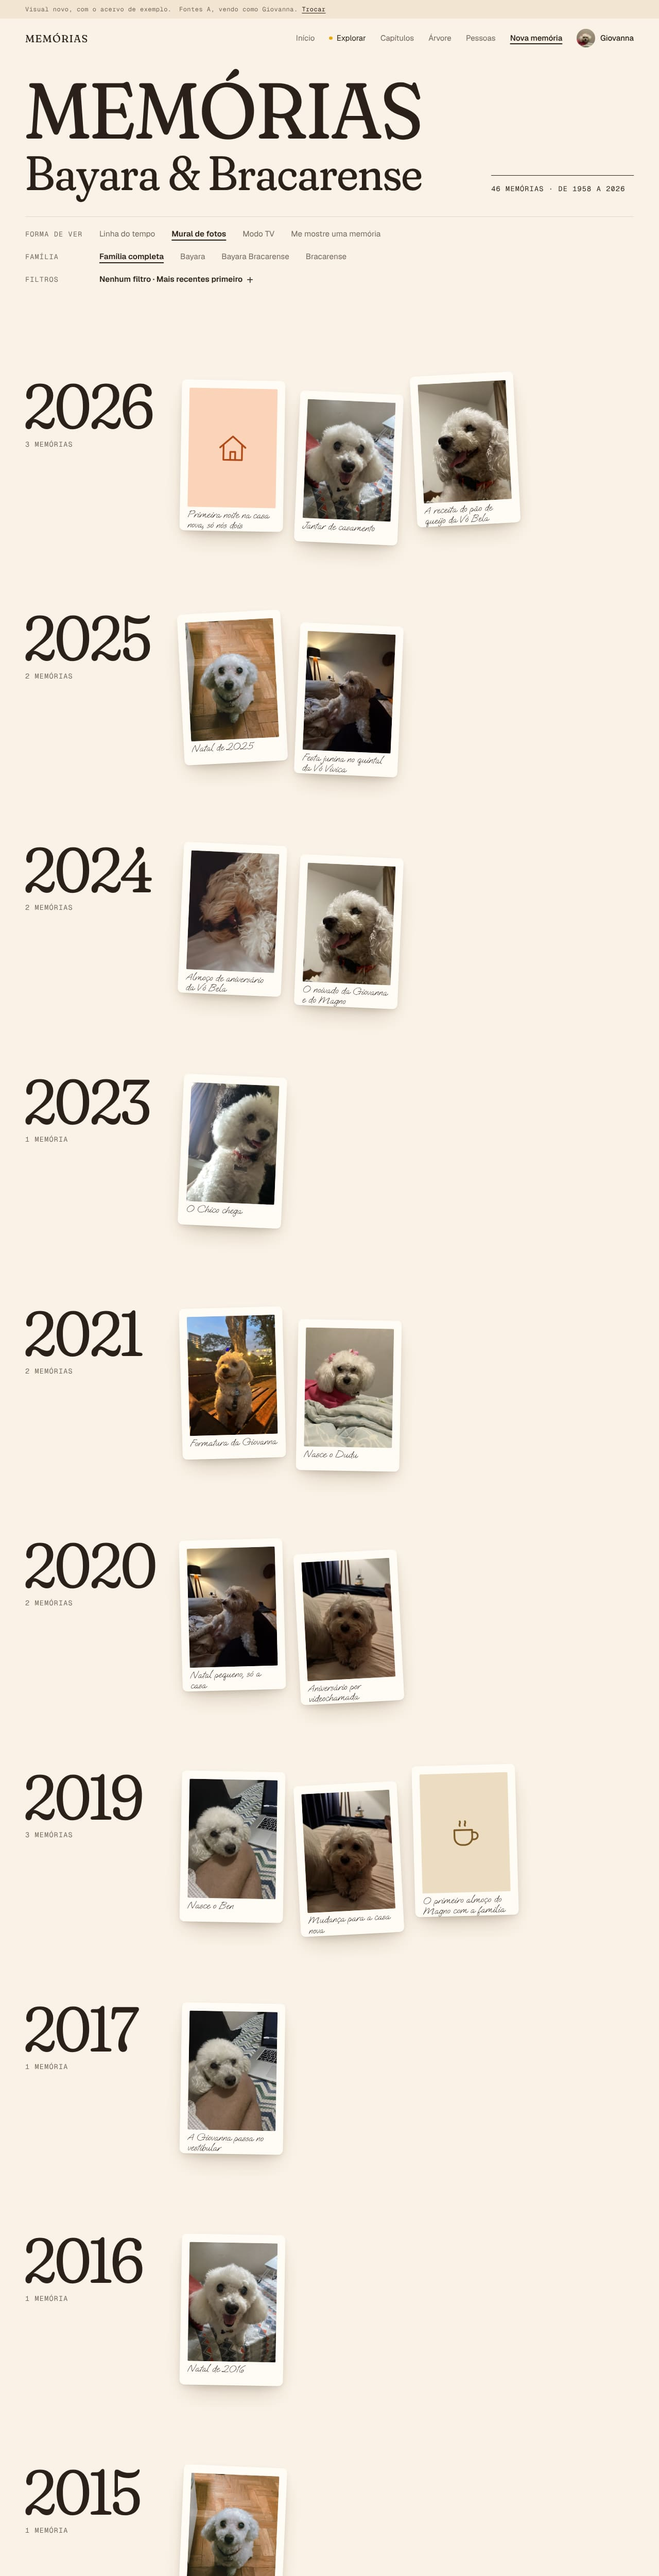
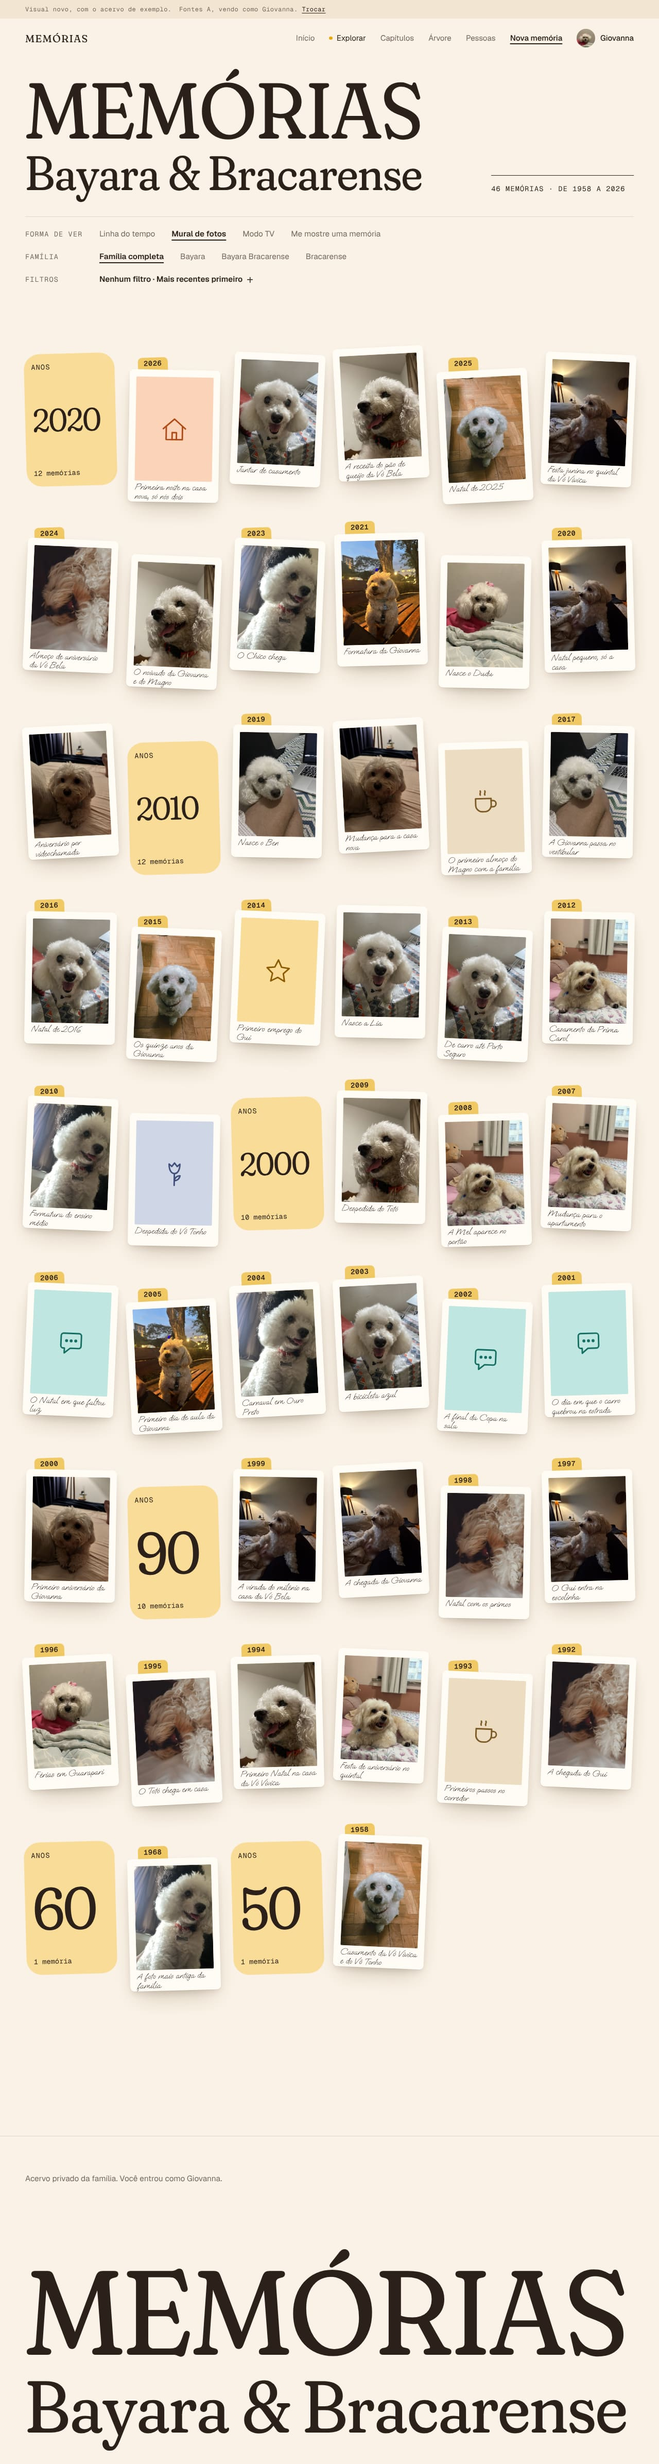
Mural: superfície contínua, década em cartão, ano em aba e ficha do verso
Decisão do Gui (17/11/2026): com o ano como cabeçalho, o mural tinha
virado uma segunda linha do tempo.

- As fotos voltam a ser uma superfície só, sem cabeçalho nem seção.
- A década é um cartão no meio das fotos, na cor da família.
- O ano é uma aba na primeira foto de cada ano.
- No computador, a ficha do verso desliza de trás da foto com o mouse
  ou com o foco: data, lugar, quem estava e relatos. A foto não vira.
- Fora da ordem do tempo, saem os cartões e as abas.
- Testes, capturas refeitas e registro em docs/visual.md.

Claude-Session: https://claude.ai/code/session_011NsaCMeNce7JqX6hEeTsgT

diff --git a/src/visual/telas/explorar.css b/src/visual/telas/explorar.css
@@ -73,40 +73,29 @@
 }
 
 /* --- Mural de fotos ------------------------------------------------------------------------------
-   As fotos-chave lado a lado, cada uma com a inclinação dela e um pouco fora de fila, como fotos
-   espalhadas na mesa. Cada ano abre com o número grande, a mesma divisória da linha do tempo, e na
-   margem de cada foto vai o título da memória, escrito à mão (decisões do Gui, 17/11/2026). */
+   Uma superfície só de fotos, cada uma com a inclinação dela e um pouco fora de fila, como fotos
+   espalhadas na mesa. Quem orienta são objetos entre as fotos: o cartão da década, no lugar de uma
+   foto, e a aba do ano na primeira foto de cada ano. Na margem, o título, escrito à mão. */
 
 .linha--mural {
-  padding-bottom: var(--e-8);
-}
-.mural__ano {
-  padding-top: var(--e-7);
-}
-.mural__ano--corrido {
-  padding-top: var(--e-5);
-}
-.mural__cabeca {
-  container-type: inline-size;
-  display: flex;
-  align-items: baseline;
-  justify-content: space-between;
-  gap: var(--e-4);
-  margin-bottom: var(--e-6);
+  padding-bottom: var(--e-9);
 }
 /* No celular, duas colunas: com três, o título escrito à mão ficava pequeno demais para ler */
 .mural {
   display: grid;
   grid-template-columns: repeat(2, minmax(0, 1fr));
-  gap: var(--e-6) var(--e-5);
+  gap: var(--e-7) var(--e-5);
+  padding-top: var(--e-7);
 }
 .mural li {
+  position: relative;
   min-width: 0;
 }
 .mural li:nth-child(even) {
   translate: 0 var(--e-4);
 }
 .mural a {
+  position: relative;
   display: block;
   border-radius: var(--raio-moldura);
   color: inherit;
@@ -114,6 +103,9 @@
 }
 .mural a:focus-visible {
   outline-offset: 0.35rem;
+}
+.mural .monte {
+  z-index: 1;
 }
 /* O título na margem da foto: manuscrito, pequeno, em até duas linhas */
 .mural .polaroid .polaroid__legenda {
@@ -132,6 +124,100 @@
   letter-spacing: 0;
   text-transform: none;
   color: var(--tinta);
+}
+
+/* A década: um cartão do tamanho de uma foto, na cor da família, deitado entre elas */
+.mural__decada {
+  container-type: inline-size;
+  aspect-ratio: 100 / 146;
+  scroll-margin-top: var(--e-6);
+}
+.mural__decada p {
+  display: grid;
+  grid-template-rows: auto 1fr auto;
+  height: 100%;
+  padding: 9cqi 8cqi;
+  border-radius: var(--raio-bloco);
+  background: var(--pastel);
+  color: var(--tinta);
+  rotate: -1.5deg;
+}
+.mural__decada strong {
+  align-self: center;
+  font-family: var(--serifa);
+  font-variation-settings: var(--serifa-ajustes-capa);
+  font-weight: var(--serifa-peso-capa);
+  font-size: calc(66cqi * var(--escala-serifa));
+  font-variant-numeric: lining-nums;
+  letter-spacing: var(--aperto-capa);
+  line-height: 0.8;
+}
+.mural__decada strong[data-letras='4'] {
+  font-size: calc(36cqi * var(--escala-serifa));
+}
+
+/* O ano: uma aba de fichário saindo do alto da primeira foto de cada ano */
+.mural__aba {
+  position: absolute;
+  z-index: 0;
+  bottom: calc(100% - 0.5rem);
+  left: 10%;
+  padding: 0.3rem 0.7rem 0.8rem;
+  border-radius: 0.5rem 0.5rem 0 0;
+  background: var(--meio);
+  color: var(--tinta);
+  font-family: var(--mono);
+  font-size: var(--t-ficha);
+  font-weight: 600;
+  line-height: 1;
+  letter-spacing: 0.06em;
+  rotate: -2deg;
+}
+
+/* A ficha do verso: fica atrás da foto e só desliza para o lado onde há mouse, ou com o foco do
+   teclado. No toque ela não aparece: o título na margem basta. O leitor de tela lê sempre. */
+.mural__verso {
+  position: absolute;
+  z-index: 0;
+  top: 16%;
+  left: calc(100% - 1.25rem);
+  display: grid;
+  justify-items: start;
+  gap: var(--e-2);
+  width: max-content;
+  max-width: 15rem;
+  padding: var(--e-4) var(--e-4) var(--e-4) calc(var(--e-4) + 1.25rem);
+  border-radius: var(--raio-moldura);
+  background: var(--branco);
+  box-shadow: var(--sombra-bilhete);
+  opacity: 0;
+  translate: -1.5rem 0;
+  pointer-events: none;
+  transition:
+    opacity var(--tempo-curto) var(--curva),
+    translate var(--tempo-medio) var(--curva);
+}
+.mural__foto[data-para-a-esquerda] .mural__verso {
+  left: auto;
+  right: calc(100% - 1.25rem);
+  padding: var(--e-4) calc(var(--e-4) + 1.25rem) var(--e-4) var(--e-4);
+  translate: 1.5rem 0;
+}
+.mural__foto:has(a:focus-visible) {
+  z-index: 3;
+}
+.mural a:focus-visible .mural__verso {
+  opacity: 1;
+  translate: 0 0;
+}
+@media (hover: hover) and (pointer: fine) {
+  .mural__foto:hover {
+    z-index: 3;
+  }
+  .mural a:hover .mural__verso {
+    opacity: 1;
+    translate: 0 0;
+  }
 }
 
 /* --- O palco: uma memória por vez ----------------------------------------------------------------
@@ -299,38 +385,19 @@
   .filtros__acoes {
     grid-column: 1 / -1;
   }
-  /* O ano numa coluna à esquerda, como na linha do tempo, e as fotos ao lado */
-  .mural__ano {
-    display: grid;
-    grid-template-columns: repeat(12, minmax(0, 1fr));
-    column-gap: var(--calha);
-    align-items: start;
-    padding-top: var(--e-9);
-  }
-  .mural__cabeca {
-    grid-column: 1 / span 3;
-    display: block;
-    margin: 0;
-  }
-  .mural__cabeca .ano__numero {
-    margin-bottom: var(--e-4);
-  }
   .mural {
-    grid-column: 4 / -1;
-    grid-template-columns: repeat(4, minmax(0, 1fr));
-    gap: var(--e-7) var(--calha);
-  }
-  .mural__ano--corrido .mural {
-    grid-column: 1 / -1;
     grid-template-columns: repeat(6, minmax(0, 1fr));
+    gap: var(--e-8) var(--calha);
+    padding-top: var(--e-8);
   }
   .mural li:nth-child(even) {
     translate: none;
   }
-  .mural li:nth-child(4n + 2) {
-    translate: 0 var(--e-5);
+  .mural li:nth-child(6n + 2),
+  .mural li:nth-child(6n + 5) {
+    translate: 0 var(--e-6);
   }
-  .mural li:nth-child(4n + 3) {
+  .mural li:nth-child(6n + 4) {
     translate: 0 calc(-1 * var(--e-3));
   }
 
@@ -382,19 +449,19 @@
 
 @media (min-width: 100rem) {
   .mural {
-    grid-template-columns: repeat(6, minmax(0, 1fr));
-  }
-  .mural__ano--corrido .mural {
     grid-template-columns: repeat(8, minmax(0, 1fr));
   }
   .mural li:nth-child(n) {
     translate: none;
   }
-  .mural li:nth-child(6n + 2),
-  .mural li:nth-child(6n + 5) {
-    translate: 0 var(--e-6);
+  .mural li:nth-child(8n + 2),
+  .mural li:nth-child(8n + 7) {
+    translate: 0 var(--e-7);
   }
-  .mural li:nth-child(6n + 4) {
-    translate: 0 calc(-1 * var(--e-3));
+  .mural li:nth-child(8n + 4) {
+    translate: 0 var(--e-5);
+  }
+  .mural li:nth-child(8n + 5) {
+    translate: 0 calc(-1 * var(--e-4));
   }
 }

diff --git a/testes/visual.test.ts b/testes/visual.test.ts
@@ -11,6 +11,7 @@ import {
   giroDoId,
   legendaLugarAno,
   listaCurta,
+  nomeDaDecada,
   trechoDoRelato,
 } from '../src/lib/visual';
 
@@ -39,6 +40,10 @@ describe('carimbo', () => {
     expect(carimboDaData({ ano: 2025, mes: 12, dia: null, aproximada: false })).toBe('dez 2025');
     expect(carimboDaData({ ano: 1992, mes: null, dia: null, aproximada: false })).toBe('1992');
     expect(carimboDaData({ ano: 1994, mes: null, dia: null, aproximada: true })).toBe('por volta de 1994');
+    // A década, no cartão do mural: como se fala
+    expect(nomeDaDecada(1990)).toEqual({ rotulo: 'Anos', numero: '90' });
+    expect(nomeDaDecada(1900)).toEqual({ rotulo: 'Anos', numero: '00' });
+    expect(nomeDaDecada(2010)).toEqual({ rotulo: 'Anos', numero: '2010' });
     expect(diaMesCurto({ mes: 3, dia: 12 })).toBe('12 mar');
     expect(diaMesCurto({ mes: null, dia: null })).toBe('');
   });
@@ -250,18 +255,36 @@ describe('conceito', () => {
     expect(linha).toMatch(/pontaDeBaixo = paraOPresente \? 'Fim' : 'Começo'/);
   });
 
-  it('o mural agrupa as fotos por ano, com o ano grande, e leva o título de cada memória à mão', () => {
-    // Decisões do Gui, 17/11/2026. Fora da ordem do tempo, o mural fica sem os grupos de ano
+  it('o mural é uma superfície só: a década é um cartão entre as fotos e o ano, uma aba na primeira foto', () => {
+    // Decisões do Gui, 17/11/2026 (segunda rodada): com o ano como cabeçalho, o mural tinha virado
+    // uma segunda linha do tempo. Fora da ordem do tempo, saem os cartões e as abas.
     const mural = tela('explorar/Mural.astro');
     expect(mural).toMatch(/const peloTempo = ordem === 'recentes' \|\| ordem === 'antigas';/);
-    expect(mural).toMatch(/peloTempo \? agruparPorAno\(memorias\) : \[\{ ano: 0, itens: memorias \}\]/);
-    expect(mural).toMatch(/\{peloTempo && \(\s*<header class="mural__cabeca">\s*<h2 class="ano__numero"/);
+    expect(mural.match(/<ul class="mural miolo"/g)).toHaveLength(1);
+    expect(mural).not.toMatch(/<h2|<section|<header/);
+    expect(mural).toMatch(/abreAno: peloTempo && anterior\?\.ano !== m\.ano/);
+    expect(mural).toMatch(/abreDecada: peloTempo && /);
+    expect(mural).toMatch(/\{abreDecada !== null && \(\s*<li class="mural__decada"/);
+    expect(mural).toMatch(/\{abreAno && \(\s*<span class="mural__aba"/);
+    // Na margem, só o título da memória, à mão
     expect(mural).toMatch(/<Polaroid id=\{m\.id\}[^>]*legenda=\{m\.titulo\}/);
-    expect(tela('pages/explorar.astro')).toContain('<Mural memorias={memorias} ordem={filtros.ordem} />');
     const css = ler('telas/explorar.css');
     expect(css).toMatch(/\.mural \.polaroid \.polaroid__legenda\s*\{[^}]*font-family:\s*var\(--mao\)[^}]*text-transform:\s*none/);
-    // O ano do mural rola com a página: nada preso novo
+    // Nada preso novo
     expect(css).not.toMatch(/position\s*:\s*(sticky|fixed)/);
+  });
+
+  it('no mural, a ficha do verso só aparece com o mouse ou com o foco do teclado, e a foto não vira', () => {
+    // Decisão do Gui, 17/11/2026: a ficha desliza de trás da foto, que continua à vista
+    const mural = tela('explorar/Mural.astro');
+    expect(mural).toMatch(/<span class="mural__verso">\s*<Carimbo itens=\{\[carimboDaData\(m\), m\.lugar\]\} \/>/);
+    const css = ler('telas/explorar.css');
+    expect(css).toMatch(/\.mural__verso\s*\{[^}]*opacity:\s*0;[^}]*pointer-events:\s*none/);
+    const comMouse = css.slice(css.indexOf('@media (hover: hover) and (pointer: fine)'));
+    expect(comMouse).toMatch(/\.mural a:hover \.mural__verso\s*\{[^}]*opacity:\s*1/);
+    expect(css.slice(0, css.indexOf('@media (hover: hover) and (pointer: fine)'))).not.toMatch(/:hover \.mural__verso/);
+    expect(css).toMatch(/\.mural a:focus-visible \.mural__verso\s*\{[^}]*opacity:\s*1/);
+    expect(css).not.toMatch(/rotate[XY]|backface-visibility|perspective/);
   });
 
   it('o modo TV passa as memórias por links, e só passa sozinho quando a pessoa liga', () => {

diff --git a/src/lib/visual.ts b/src/lib/visual.ts
@@ -86,6 +86,11 @@ export function carimboDaData(d: DataFlexivel): string {
 }
 
 /** A legenda da foto: "Belo Horizonte (2025)". Sem lugar, só o ano. */
+/** A década como se fala: "Anos 90"; de 2000 em diante, com o ano inteiro ("Anos 2010"). */
+export function nomeDaDecada(decada: number): { rotulo: string; numero: string } {
+  return { rotulo: 'Anos', numero: decada >= 1900 && decada < 2000 ? String(decada % 100).padStart(2, '0') : String(decada) };
+}
+
 export function legendaLugarAno(lugar: string | null | undefined, ano: number): string {
   return lugar?.trim() ? `${lugar.trim()} (${ano})` : String(ano);
 }

diff --git a/docs/visual.md b/docs/visual.md
@@ -436,12 +436,14 @@ Cada grupo de telas vai num PR para a `homologa`, numa branch `tst-visual-<grupo
 
 **Linha do tempo.** A do conceito, sem mudança de desenho. Os trilhos, as épocas e a faixa de décadas só aparecem quando `mostraTrilhos` deixa. Em "Mais antigas primeiro", a página leva ao presente e o trilho acaba, embaixo, em "Fim do capítulo “Natais”" e "Fim da época “…”" (texto novo, para o Gui confirmar). Em "Entraram por último" e "Mais contadas", a lista é corrida, sem a divisória dos anos, e cada memória traz a data inteira.
 
-**Mural** (decisões do Gui, 17/11/2026, depois de ver a primeira versão, que era só as fotos, sem texto). As fotos-chave como fotos reveladas, cada uma com a inclinação dela e um pouco fora de fila.
+**Mural** (decisões do Gui, 17/11/2026, em três rodadas). A primeira versão era só as fotos, sem texto. Na segunda, a pedido dele, as fotos ficaram agrupadas por ano, com o ano grande como cabeçalho e o título na margem; ao ver, ele achou que o mural tinha virado uma segunda linha do tempo: o ano é para facilitar, e o mural precisa orientar sem perder a cara de mural. A terceira, que vale:
 
-- **Agrupadas por ano.** Cada grupo abre com o ano grande como divisória, como na linha do tempo, e a conta das memórias do ano. No celular o ano fica em cima das fotos; no computador, numa coluna à esquerda. O ano rola com a página: nada preso novo.
-- **O título na margem.** Na margem de cada foto vai só o título da memória, pequeno, na letra manuscrita, em até duas linhas. Vale também para a memória sem foto, que entra como cartão na cor do tipo. É o segundo uso da manuscrita, que até aqui só assinava os relatos.
-- **Fora da ordem do tempo** ("Entraram por último" e "Mais contadas"), o mural fica sem os grupos de ano, como os trilhos na linha do tempo.
-- Colunas: duas no celular, quatro no computador ao lado do ano e seis na tela grande; sem os grupos de ano, seis e oito. No celular eram três: com o título escrito à mão, a letra ficava pequena demais para ler.
+- **Uma superfície só.** As fotos-chave como fotos reveladas, de ponta a ponta, cada uma com a inclinação dela e um pouco fora de fila, sem cabeçalho nem seção. Duas colunas no celular (com três, o título à mão ficava pequeno demais para ler), seis no computador e oito na tela grande.
+- **A década é um cartão no meio das fotos.** Ocupa o lugar de uma foto, na cor da família, com "Anos" e o número grande em serifa ("90", "2010") e a conta das memórias da década. A fila de fotos continua na mesma linha depois dele. Um cartão por ano foi descartado: o acervo de exemplo tem 46 memórias em cerca de 30 anos, e seriam quase tantos cartões quanto fotos.
+- **O ano é uma aba na primeira foto de cada ano**, como a de um fichário, saindo do alto da foto. Não ocupa lugar e não interrompe a fila.
+- **O título na margem.** Só o título da memória, pequeno, na letra manuscrita, em até duas linhas. Vale também para a memória sem foto, que entra como cartão na cor do tipo. É o segundo uso da manuscrita, que até aqui só assinava os relatos.
+- **A ficha do verso, no computador.** Ao passar o mouse, a foto endireita e sobe um pouco e, de trás dela, desliza uma ficha com o carimbo (data e lugar), quem estava e quantos relatos. A foto continua à vista, e o clique abre a memória, que é o verso inteiro. Perto da borda direita da tela, a ficha sai para a esquerda. O foco do teclado faz o mesmo, e com movimento reduzido a ficha aparece sem deslizar. No toque ela não aparece: o título na margem basta. Virar a foto foi pensado e descartado: esconde a foto no momento em que a pessoa aponta para ela, faz várias virarem em sequência quando o mouse passa pela grade e fica perto do "cartão que deita", que está fora do movimento combinado.
+- **Fora da ordem do tempo** ("Entraram por último" e "Mais contadas"), saem os cartões de década e as abas de ano, como os trilhos na linha do tempo, e a ficha do verso passa a ser o lugar da data.
 
 **Modo TV.** Uma memória por página, na tela inteira, sem o topo e o rodapé do site: a cor do tipo de momento no fundo, a foto inteira com margem de ampliação, o carimbo, o título, um trecho do relato assinado à mão e quem estava. "Anterior" e "Próxima" são links, com o foco já em "Próxima" (no controle da TV, o botão do meio passa); as setas do teclado passam, o Esc sai e tocar na foto passa para a seguinte. A troca esmaece pela transição entre páginas do navegador, só para quem não pediu menos movimento: com movimento reduzido, a troca é sem animação. A memória da vez vai no endereço (`m`).
 
@@ -462,7 +464,7 @@ O mural, o modo TV e o sorteio não mostram rascunho: o rascunho só aparece na 
 
 **Decidido pelo Gui em 17/11/2026, ao ver o PR #35:** ficam o endereço `/explorar`, o nome "Forma de ver" e os textos do formulário ("O que a memória tem", "Seus relatos", "Você já contou", "Você estava e ainda não contou", "Quem estava junto", "Mostrar memórias", "Limpar filtros", "Nenhuma memória passa nesses filtros."), do palco ("Sair do modo TV", "Passar sozinho", "Parar de passar sozinho", "Abrir esta memória", "Uma memória ao acaso", "Me mostre outra", "Voltar ao Explorar") e do pé do trilho ("Fim do capítulo" e "Fim da época", na ordem das mais antigas). Mudaram o mural e o "Passar sozinho", como descrito acima.
 
-**Textos novos desta rodada, para o Gui ver:** "8 segundos", "10 segundos" e "15 segundos", "Pausar" e "Retomar"; e as duas colunas do mural no celular.
+**Para o Gui ver na prévia:** os textos "8 segundos", "10 segundos" e "15 segundos", "Pausar" e "Retomar"; no mural, as duas colunas no celular, o cartão da década ("Anos 90", "Anos 2010"), a aba do ano e a ficha do verso ("Com Elizete, Giovanna e Gui", "2 relatos"). A aba do ano precisa ser conferida com as pessoas mais velhas: se passar batida, a saída é o ano na margem de toda foto.
 
 **Capturas.** `CAPTURAS_SO=^explorar npm run capturas -- tirar <pasta>`. As deste grupo estão em `docs/visual/fase-3/explorar/`.
 
